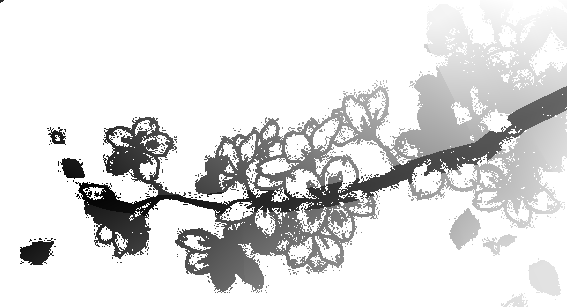
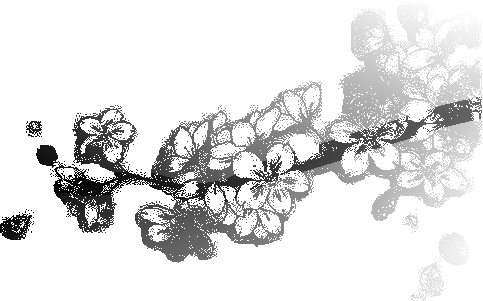
Новый рисунок сакуры: пересборка графики, ось ветки и точки лепестков под него

Changed region(s): [[0.0311, 0.0299, 1.0, 0.9568], [0.8385, 0.8671, 0.9938, 1.0], [0.0, 0.6877, 0.1242, 0.8671]]

diff --git a/js/script.js b/js/script.js
@@ -503,7 +503,7 @@ form.addEventListener('submit', e => {
     // Пути абсолютные: на /en/ относительные ушли бы в /en/img/
     const ART = '/img/sakura.png';
     const GROW = '/img/sakura-grow.png';
-    const RATIO = 571 / 307;          // пропорции исходного рисунка
+    const RATIO = 483 / 301;          // пропорции исходного рисунка
     const REVEAL = 2500;              // мс на проявление
     const STEPS = 150;                // ступеней фронта проявления
     const EDGE = 6;                   // резкость края проявления
@@ -513,9 +513,9 @@ form.addEventListener('submit', e => {
     const clamp = (v, a, b) => (v < a ? a : v > b ? b : v);
 
     // Точки на ветке, от которых отрываются падающие лепестки.
-    const SPOTS = [[.04, .57], [.11, .55], [.18, .61], [.25, .64], [.32, .62],
-                   [.39, .60], [.46, .63], [.53, .62], [.60, .57], [.67, .54],
-                   [.75, .52], [.82, .47], [.89, .37], [.96, .31]];
+    const SPOTS = [[.039, .562], [.110, .542], [.180, .578], [.251, .581], [.321, .562],
+                   [.391, .581], [.462, .605], [.534, .555], [.605, .482], [.675, .459],
+                   [.745, .449], [.816, .399], [.886, .339], [.957, .329]];
 
     const calm = window.matchMedia('(prefers-reduced-motion: reduce)');
     const fine = window.matchMedia('(hover:hover) and (pointer:fine)').matches;

diff --git a/en/index.html b/en/index.html
@@ -249,6 +249,6 @@
     </div>
   </footer>
 
-  <script src="/js/script.js?v=14"></script>
+  <script src="/js/script.js?v=15"></script>
 </body>
 </html>

diff --git a/index.html b/index.html
@@ -274,6 +274,6 @@
     </div>
   </footer>
 
-  <script src="js/script.js?v=14"></script>
+  <script src="js/script.js?v=15"></script>
 </body>
 </html>

diff --git a/tools/build_art.py b/tools/build_art.py
@@ -25,10 +25,13 @@ a = np.asarray(im).astype(np.int16)
 H, W = a.shape[:2]
 lum = a.mean(axis=2)
 
-# The snip caught a dark strip of the chat UI on the left; ignore that strip.
-X0 = 14
+# Снимок без интерфейса: лишней полосы слева больше нет.
+X0 = 0
 work = lum[:, X0:]
-ink = work < 140
+
+# Кадрируем по слабым следам карандаша, иначе бледные лепестки
+# и штриховка у краёв попадут за границу.
+ink = work < 232
 ink = ndimage.binary_opening(ink, np.ones((2, 2)))
 
 ys, xs = np.nonzero(ink)
@@ -45,7 +48,10 @@ crop = lum[by0:by1 + 1, bx0 + X0:bx1 + X0 + 1].astype(np.float32)
 ch, cw = crop.shape
 
 # White paper -> transparent, pencil shading kept as grey via alpha.
-alpha = np.clip((252.0 - crop) / 205.0, 0, 1)
+# Рисунок карандашный и бледный, поэтому мягкие тона поднимаем гаммой:
+# без неё на светлом фоне hero ветка почти не читается.
+GAMMA = .62
+alpha = np.clip((250.0 - crop) / 250.0, 0, 1) ** GAMMA
 alpha[alpha < .02] = 0
 print('ink coverage %', round(100 * float((alpha > 0).mean()), 2))
 
@@ -55,12 +61,15 @@ Image.fromarray(art, 'RGBA').save(os.path.join(PREVIEW, '_art_cut.png'))
 print('art size', (cw, ch))
 
 # ---------------------------------------------------------------- ось ветки
-# Ось ветки задаём опорными точками, снятыми с самого рисунка: она идёт
-# от толстого правого конца вниз-влево, в середине доходит до самой нижней
-# точки и плавно уходит вверх к тонкому левому кончику.
-CONTROL = [(75, 188), (110, 199), (150, 205), (195, 206), (240, 200),
-           (280, 201), (320, 197), (360, 188), (400, 175), (440, 162),
-           (480, 152), (520, 120), (571, 95)]
+# Ось ветки задаём опорными точками, снятыми с самого рисунка, в координатах
+# ИСХОДНОГО файла: толстый правый конец идёт вверх-вправо к срезу кадра,
+# в середине опускается до самой нижней точки, слева тонкий кончик уходит вверх.
+# Скрипт сам сдвинет точки на начало кадрирования.
+CONTROL = [(105, 188), (125, 192), (150, 190), (180, 188), (210, 196),
+           (240, 201), (265, 197), (290, 185), (310, 176), (340, 167),
+           (370, 158), (400, 148), (430, 139), (455, 131), (480, 123),
+           (505, 117), (528, 112)]
+CONTROL = [(x - (bx0 + X0), y - by0) for x, y in CONTROL]
 cx = np.array([p[0] for p in CONTROL], dtype=np.float64)
 cy = np.array([p[1] for p in CONTROL], dtype=np.float64)
 ax_full = np.arange(cw, dtype=np.float64)
@@ -70,8 +79,9 @@ axis_y = np.clip(axis_y, 0, ch - 1)
 print('axis y at left/mid/right: %.0f %.0f %.0f' % (
     axis_y[0], axis_y[cw // 2], axis_y[-1]))
 
-# Насколько ось реально лежит на тёмной полосе — самопроверка.
-dark = crop < 140
+# Насколько ось реально лежит на штрихе — самопроверка. Рисунок карандашный,
+# поэтому считаем любой след, а не только тёмные пиксели.
+dark = alpha > 0
 on = 0
 for x in range(60, cw):
     y = int(round(axis_y[x]))
